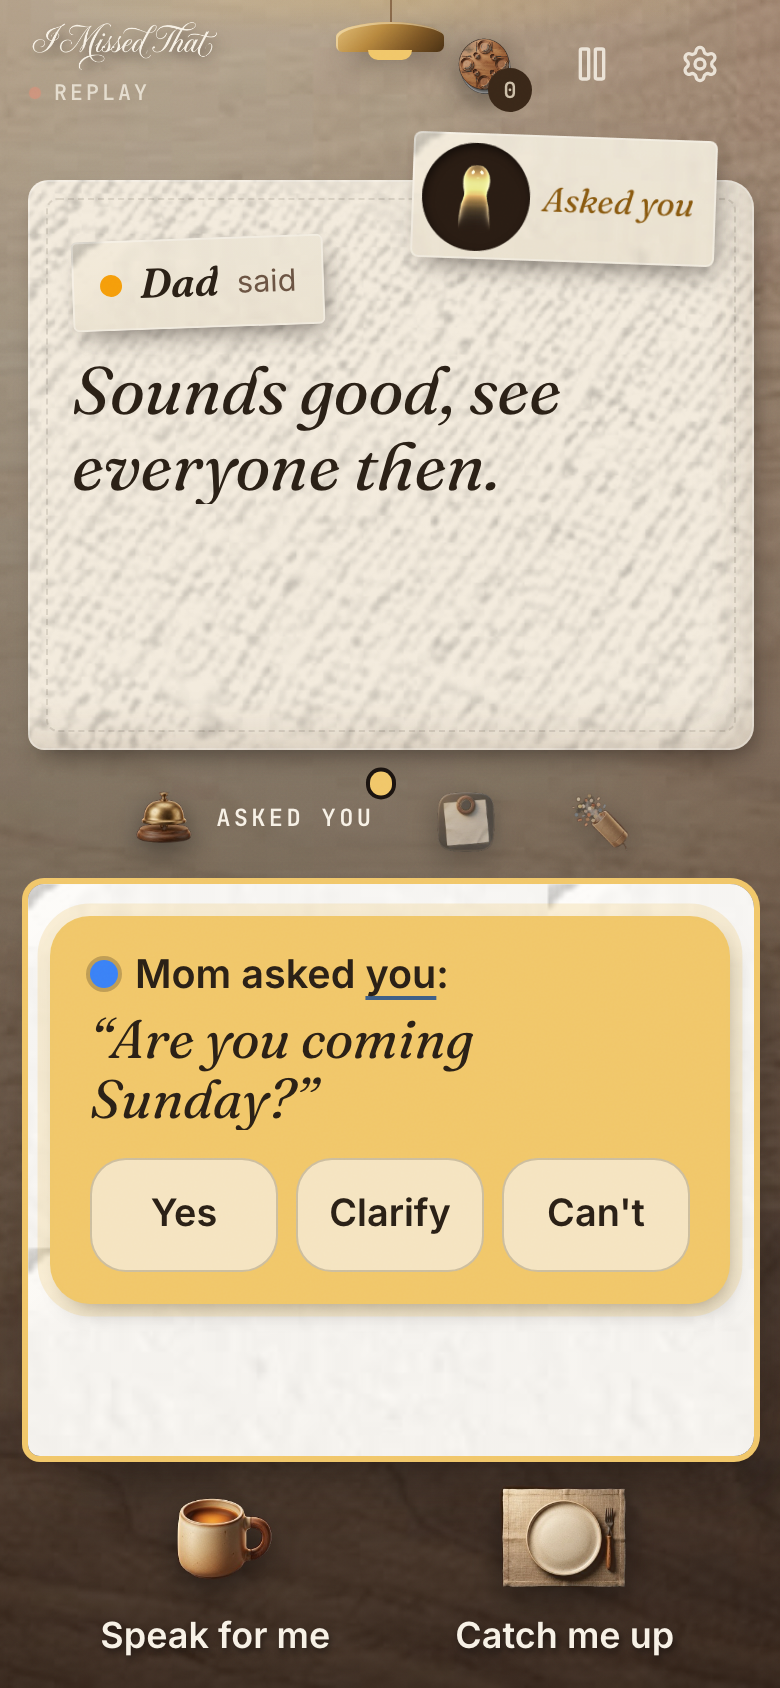
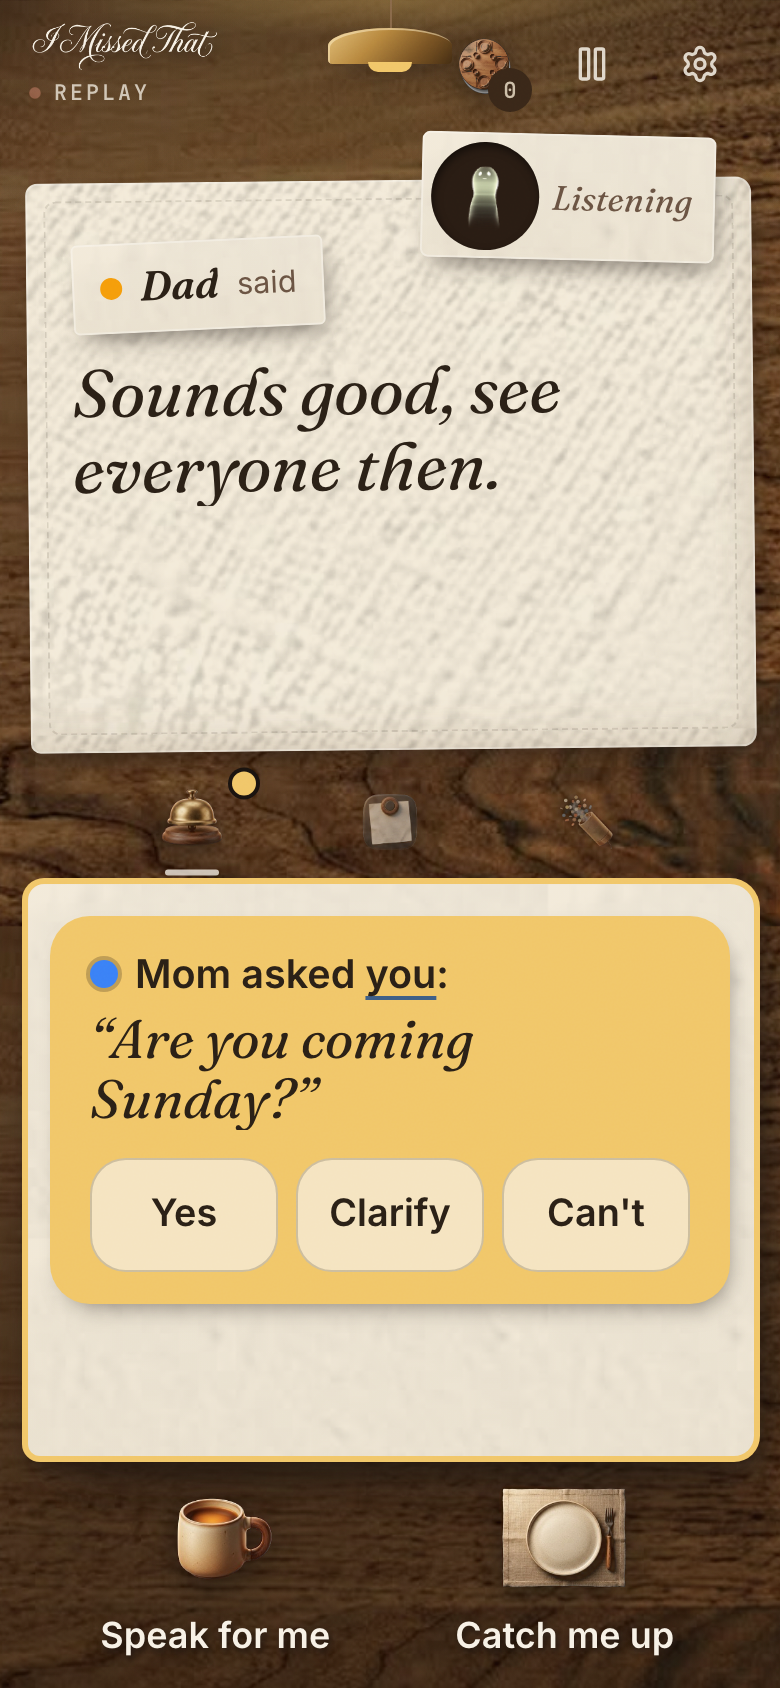
Mobile-first brand build: placemat, paper notes, mug and bell objects, lamp pendant, landing photo hero

diff --git a/server/src/asr.ts b/server/src/asr.ts
@@ -82,7 +82,9 @@ const HOLD_MAX_MS = 2_500;         // coalesced is_final fragments flush after t
 export class Coalescer {
   private held: DgWord[] = [];
   private timer: NodeJS.Timeout | undefined;
-  constructor(private emit: (m: AsrMessage) => void) {}
+  /** maxSpanS: hard cap on a held turn. The host mic hears nonstop crosstalk (no endpoint for a long time), so it
+   *  uses a short cap; a phone hears one person and can hold a whole turn. */
+  constructor(private emit: (m: AsrMessage) => void, private maxSpanS = 8) {}
   private out(words: DgWord[], final: boolean) {
     for (const m of resultsToMessages({ type: 'Results', is_final: final, channel: { alternatives: [{ words }] } })) this.emit(m);
   }
@@ -97,11 +99,11 @@ export class Coalescer {
     this.held.push(...words);
     const last = this.held[this.held.length - 1];
     const span = this.held.length ? last.end - this.held[0].start : 0;
-    // Flush at the endpoint, or at a sentence end once the held text is a real line (>= 1.5 s), or at 8 s. Without the
-    // sentence rule a host mic under nonstop crosstalk never sees speech_final and held captions for 12 s; without
+    // Flush at the endpoint, or at a sentence end once the held text is a real line (>= 1.5 s), or at maxSpanS. Without the
+    // sentence rule (and the short host cap) a host mic under nonstop crosstalk held captions for 8-12 s; without
     // the 1.5 s floor "Fine by me." / "Less cooking for once." split again.
     const sentenceEnd = /[.?!]["')\]]?$/.test(last?.punctuated_word ?? '');
-    if (r.speech_final || (sentenceEnd && span >= 1.5) || span > 8 || this.held.length > 60) { this.flush(); return; }
+    if (r.speech_final || (sentenceEnd && span >= 1.5) || span > this.maxSpanS || this.held.length > 60) { this.flush(); return; }
     if (words.length) this.out(this.held, false);
     if (this.held.length) this.arm();
   }
@@ -163,7 +165,7 @@ export function registerAsr(app: FastifyInstance): void {
       let keepAlive: NodeJS.Timeout | undefined;
       let reconnectTimer: NodeJS.Timeout | undefined;
       const vad = new Vad();
-      const co = new Coalescer(send);
+      const co = new Coalescer(send, participant ? 8 : 3);
 
       // WS heartbeat: a phone that vanished (Wi-Fi drop, killed tab) often never sends a close frame.
       let alive = true;

diff --git a/client/src/index.css b/client/src/index.css
@@ -3,7 +3,7 @@
 
 /*
  * Theme tokens: design/BRAND.md. "Lamplight. Linen. Walnut."
- * The page is the walnut table under a pendant lamp (tex/walnut-top.jpg), the reading surface is
+ * The page is the walnut table under a pendant lamp (tex/walnut-table.jpg), the reading surface is
  * linen (tex/linen-weave.jpg), plans and notes are paper (tex/paper-sheet.jpg).
  * Dark scope = things on the walnut (cream text). Light scope (.linen/.paper) redefines the same
  * tokens for ink, so every component re-colors itself by the material it sits on.
@@ -173,13 +173,15 @@ html, body, #root { height: 100%; }
 body {
   margin: 0;
   background-color: var(--shadow);
-  /* the walnut table: the lamp's pool at the top, the wood falling into shadow toward you */
+  /* the walnut table (tex/walnut-table.jpg: the mood photo's grain with its lighting flattened),
+     a pendant lamp's warm pool at the top, the wood falling into shadow toward you */
   background-image:
-    linear-gradient(180deg, rgb(40 22 10 / .12), rgb(36 20 10 / .3) 45%, rgb(27 16 8 / .55) 100%),
-    url("/tex/walnut-top.jpg");
-  background-size: cover;
-  background-position: 38% top;
-  background-attachment: fixed;
+    radial-gradient(ellipse 95% 42% at 50% 0%, rgb(241 199 106 / .2), transparent 72%),
+    linear-gradient(180deg, rgb(27 16 8 / 0), rgb(27 16 8 / .18) 50%, rgb(27 16 8 / .5) 100%),
+    url("/tex/walnut-table.jpg");
+  background-size: auto, auto, 860px auto;
+  background-position: 0 0, 0 0, 42% 0;
+  background-repeat: no-repeat, no-repeat, repeat;
   color: var(--fg);
   font-family: var(--font-sans);
   line-height: 1.4;
@@ -307,7 +309,7 @@ body::after {
 /* Walnut: the real wood, a thin bevel, one shadow down-right. */
 @utility wood {
   background-color: var(--walnut);
-  background-image: linear-gradient(180deg, rgb(27 20 16 / .05), rgb(27 20 16 / .35)), url("/tex/walnut-top.jpg");
+  background-image: linear-gradient(180deg, rgb(27 20 16 / .05), rgb(27 20 16 / .35)), url("/tex/walnut-table.jpg");
   background-size: cover;
   background-position: 40% 10%;
   box-shadow: inset 0 0 0 1px rgb(247 241 230 / .08), inset 0 0 36px 8px rgb(27 20 16 / .45), var(--shadow-sheet);

diff --git a/client/src/join/Lamp.tsx b/client/src/join/Lamp.tsx
@@ -31,7 +31,7 @@ export function Lamp({ pace, muted, host, name, heard, level, onReveal }: {
     <button type="button" onClick={onReveal} data-testid="lamp" data-tone={st.tone}
       aria-label={`Lamp: ${st.word}. ${st.line}.${pace?.wpm ? ` ${pace.wpm} words per minute.` : ''} Tap to show controls.`}
       className="fixed inset-0 z-30 flex cursor-pointer flex-col items-center justify-between overflow-hidden bg-dusk px-5 pt-[max(1.25rem,env(safe-area-inset-top))] pb-[max(1rem,env(safe-area-inset-bottom))] text-center"
-      style={{ backgroundImage: 'linear-gradient(180deg, rgb(27 20 16 / .3), rgb(27 20 16 / .72)), url("/tex/walnut-top.jpg")', backgroundSize: 'cover', backgroundPosition: '38% top' }}>
+      style={{ backgroundImage: 'linear-gradient(180deg, rgb(27 20 16 / .3), rgb(27 20 16 / .72)), url("/tex/walnut-table.jpg")', backgroundSize: 'cover', backgroundPosition: '38% top' }}>
       {/* the lamp's light on the wood */}
       <span aria-hidden className="pointer-events-none absolute inset-0 transition-[background] duration-500"
         style={{ background: `radial-gradient(70% 42% at 50% 46%, color-mix(in oklab, ${c} 45%, transparent), transparent 72%)` }} />

diff --git a/client/src/landing/Landing.tsx b/client/src/landing/Landing.tsx
@@ -65,7 +65,7 @@ function Frame({ children, label }: { children: ReactNode; label: string }) {
 function LampMock() {
   return (
     <Frame label="Joyce's phone lying face-up on the table: a green lamp, 'Good pace for Bera', and the house rules on the placemat edge.">
-      <div className="overflow-hidden rounded-2xl p-3 text-left" style={{ backgroundImage: 'linear-gradient(180deg, rgb(27 20 16 / .2), rgb(27 20 16 / .6)), url("/tex/walnut-top.jpg")', backgroundSize: 'cover' }}>
+      <div className="overflow-hidden rounded-2xl p-3 text-left" style={{ backgroundImage: 'linear-gradient(180deg, rgb(27 20 16 / .2), rgb(27 20 16 / .6)), url("/tex/walnut-table.jpg")', backgroundSize: 'cover' }}>
         <div className="linen -rotate-1 rounded-md px-3 py-2">
           <p className="font-mono text-[0.58rem] font-semibold tracking-[0.16em] text-ink-muted uppercase">Your phone is your mic</p>
           <p className="font-display text-[1.9rem] leading-none text-ink italic">Joyce</p>

diff --git a/client/src/ui/PhoneTable.tsx b/client/src/ui/PhoneTable.tsx
@@ -210,7 +210,7 @@ export function PhoneTable({ header, lamp, placemat, deck, objects }: {
   return (
     <div className="relative mx-auto flex h-dvh max-w-xl flex-col overflow-hidden pt-[env(safe-area-inset-top)]">
       {/* the room beyond the lamp's reach: the top edge of the table falls into shadow */}
-      <div aria-hidden className="pointer-events-none absolute inset-x-0 top-0 h-28 bg-gradient-to-b from-dusk/70 to-transparent" />
+      <div aria-hidden className="pointer-events-none absolute inset-x-0 top-0 h-24 bg-gradient-to-b from-dusk/40 to-transparent" />
       <TopRow {...header} tableLamp={lamp} />
       {placemat}
       {deck}
